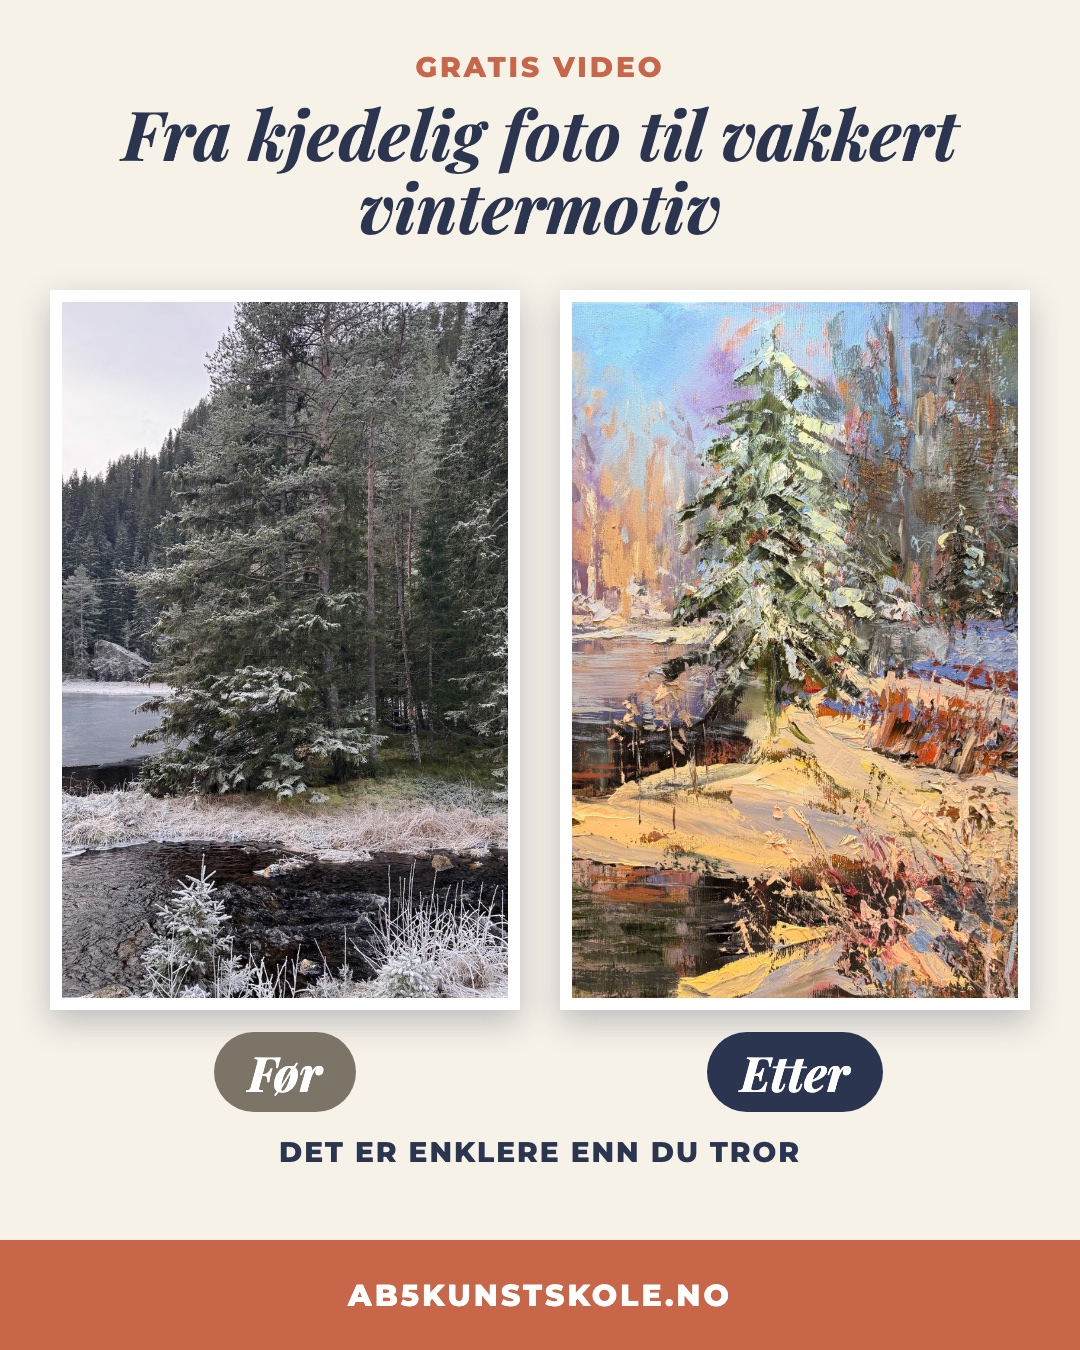
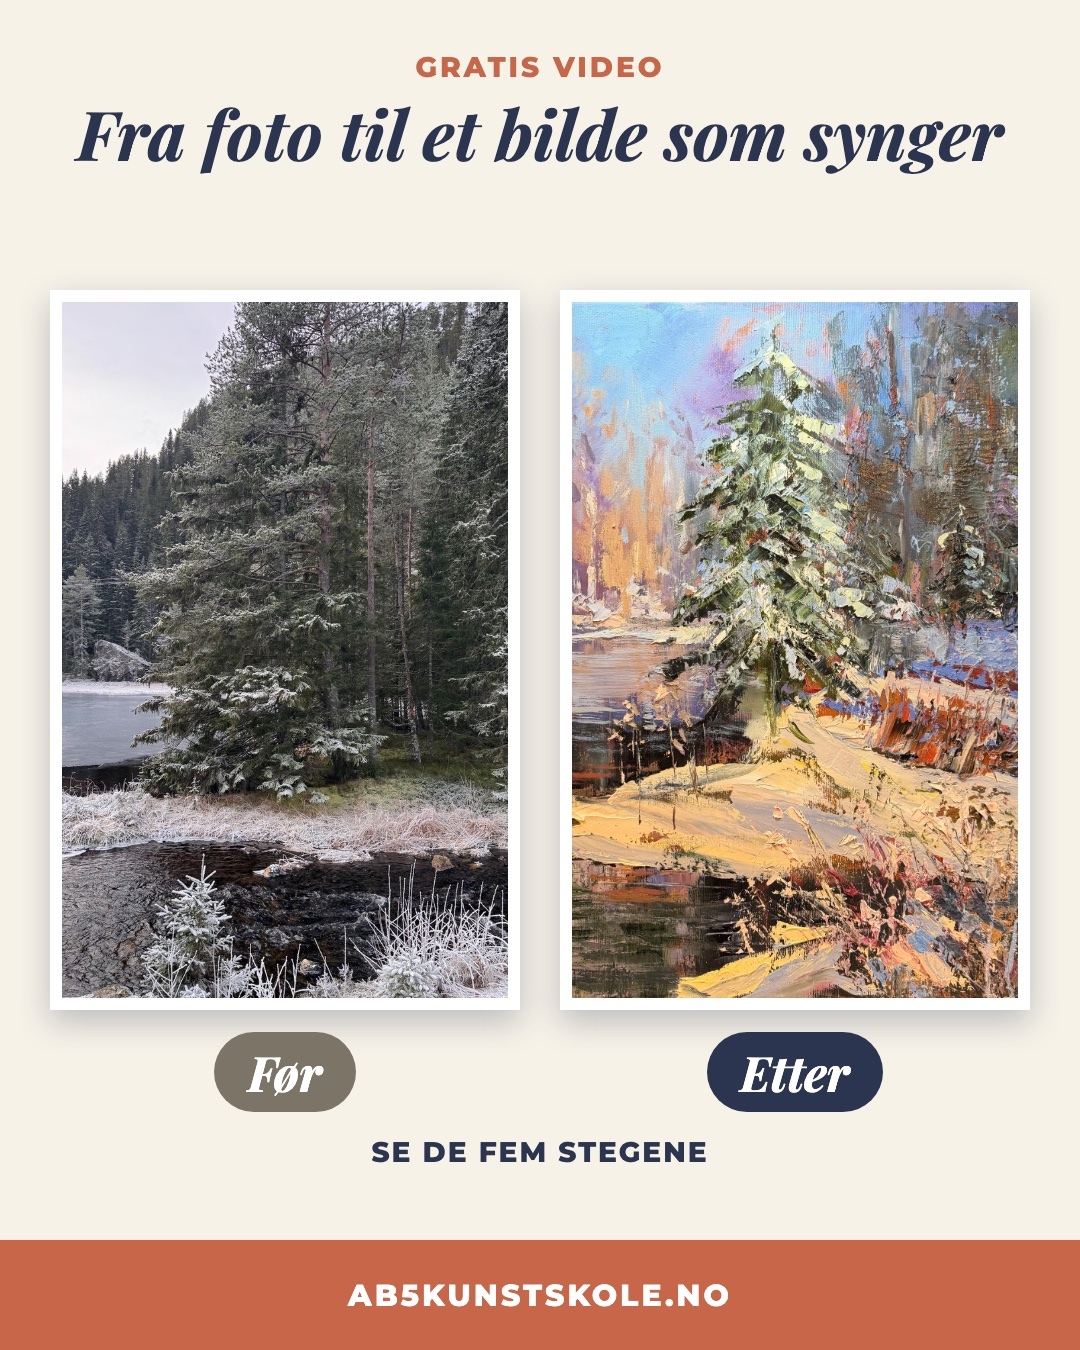
feat: copy aligned with the VSL, P1b renamed to P2

Changed region(s): [[0.0611, 0.0622, 0.9472, 0.1867], [0.2444, 0.84, 0.7333, 0.8711]]

diff --git a/index.html b/index.html
@@ -26,12 +26,13 @@ hr{display:none}
 </style></head><body>
 <header><div class="wrap"><h1>Annonser, januar 2027</h1>
 <p>AB5 Kunstskole. Tre videoannonser og tre bildeannonser som sender folk til gratisvideoen, til godkjenning.</p>
-<nav><a href="#v1">V1</a><a href="#v2">V2</a><a href="#v3">V3</a><a href="#p1">P1</a><a href="#p1b">P1b</a><a href="#p3">P3</a></nav></div></header>
+<nav><a href="#v1">V1</a><a href="#v2">V2</a><a href="#v3">V3</a><a href="#p1">P1</a><a href="#p2">P2</a><a href="#p3">P3</a></nav></div></header>
 <main><div class="wrap"><h1>Meta ads, January 2027 round: copy</h1>
 <p>Six ads that send people to the free VSL (about 25 min). The ads sell the video, not the workshop: no price, no dates, no ticket.</p>
 <ul>
 <li>Videos follow the best freebie format from November ("Ad 1 – New Video", CPL 16.5): Agita talking straight to camera in the studio, paint tubes in hand, paintings behind her, 40–50 seconds, mostly one take. V1 adds two overhead palette shots. All three can be filmed in one session.</li>
-<li>Photos follow the two best image formats (P1b is a test variant of P1, P3 is student social proof in the polaroid layout): the Før/Etter split ("Image 1 Before After", webinar) and the polaroid collage ("Image 2 – Du maler", direct sale).</li>
+<li>Photos build on the two best image formats: Før/Etter ("Image 1 Before After", webinar) for P1 and P2, and the polaroid collage ("Image 2 – Du maler", direct sale) for P3. P2 is a test variant of P1.</li>
+<li>Every promise is something the VSL actually delivers: why the colours turn muddy (the demo), the five AB5 steps, and Agita and Bjørn themselves. No ad promises a skill, a finished painting or the workshop.</li>
 <li>Every ad has 3 primary texts, 3 headlines and 3 descriptions (the short line under the headline in the feed).</li>
 <li>Button on every ad: <strong>Learn more</strong> ("Se mer"). Destination: the VSL page.</li>
 <li>Claims come from the VSL script (<code>copy/vsl-jan-2027/vsl-manus.md</code>). The warm/cold colour rule is not stated anywhere in the ads, because Agita has not confirmed it yet.</li>
@@ -184,14 +185,14 @@ hr{display:none}
 <blockquote>
 <p>Du har tatt vare på alle andre i årevis. Kjørt til fotball. Laget middag. Stilt opp.</p>
 <p>Nå er det din tur.</p>
-<p>I en gratis video viser Agita deg hvorfor fargene så ofte blir grumsete, og de fem stegene fra hvitt lerret til et maleri du blir stolt av.</p>
+<p>I en gratis video viser Agita deg hvorfor fargene så ofte blir grumsete, og de fem stegene AB5 Kunstskole bruker fra hvitt lerret til ferdig maleri.</p>
 <p>👉 Klikk her for å få tilgang med en gang</p>
 </blockquote>
 <p><strong>2</strong></p>
 <blockquote>
 <p>Når satte du sist av tid bare til deg selv?</p>
 <p>Ikke til jobben. Ikke til familien. Bare til deg, en pensel og litt farge.</p>
-<p>Agita har laget en gratis video om hvorfor fargene så ofte blir grumsete, og hvordan du kommer i gang igjen. Den tar rundt 25 minutter. Ta en kopp kaffe og se den i ro og fred.</p>
+<p>Agita har laget en gratis video om hvorfor fargene så ofte blir grumsete, med de fem stegene AB5 Kunstskole bruker. Den tar rundt 25 minutter. Ta en kopp kaffe og se den i ro og fred.</p>
 <p>👉 Klikk her for å få tilgang med en gang</p>
 </blockquote>
 <p><strong>3</strong></p>
@@ -272,7 +273,7 @@ hr{display:none}
 <blockquote>
 <p>«Jeg har aldri malt før.»</p>
 <p>Da er du hjertelig velkommen. Da har du ingen gamle vaner å lære bort.</p>
-<p>Agita har laget en gratis video om hvor du begynner, og hvorfor det første steget ikke handler om fargene.</p>
+<p>I Agitas gratis video får du de fem stegene AB5 Kunstskole bruker, og du ser hvorfor det første steget ikke handler om fargene.</p>
 <p>👉 Klikk her for å få tilgang med en gang</p>
 </blockquote>
 <p><strong>3</strong></p>
@@ -284,7 +285,7 @@ hr{display:none}
 <h3>Headlines</h3>
 <ol>
 <li>Hvor begynner du på et hvitt lerret?</li>
-<li>Aldri malt før? Start her</li>
+<li>Aldri malt før? Se dette først</li>
 <li>Fra hvitt lerret til ferdig maleri</li>
 </ol>
 <h3>Descriptions</h3>
@@ -301,16 +302,15 @@ hr{display:none}
 <strong>Audience:</strong> cold.</p>
 <h3>Image brief</h3>
 <ul>
-<li>Top: <strong>GRATIS VIDEO</strong> / serif headline <strong>Fra kjedelig foto til vakkert vintermotiv</strong>.</li>
+<li>Top: <strong>GRATIS VIDEO</strong> / serif headline <strong>Fra foto til et bilde som synger</strong>.</li>
 <li>Two white-framed pictures: left Agita's reference photo, right her painting. Solid tags under them: «Før» (grey), «Etter» (navy).</li>
-<li>Under: <strong>DET ER ENKLERE ENN DU TROR</strong>, then a terracotta bar with <strong>AB5KUNSTSKOLE.NO</strong>.</li>
+<li>Under: <strong>SE DE FEM STEGENE</strong>, then a terracotta bar with <strong>AB5KUNSTSKOLE.NO</strong>.</li>
 </ul>
 <h3>Primary text</h3>
 <p><strong>1</strong> (same structure as the winner)</p>
 <blockquote>
 <p>Før: Du blander rødt og blått for å få lilla. Resultatet? Brunt, grumsete og livløst.</p>
-<p>Etter: Du vet hvorfor det skjer, og fargene blir rene igjen.</p>
-<p>Agita viser deg forskjellen i en gratis video.</p>
+<p>I en gratis video viser Agita deg hvorfor det skjer, og hva som skal til for at fargene blir rene. Og du får de fem stegene hun bruker fra motiv til maleri.</p>
 <p>👉 Klikk her for å få tilgang med en gang</p>
 </blockquote>
 <p><strong>2</strong></p>
@@ -322,25 +322,25 @@ hr{display:none}
 </blockquote>
 <p><strong>3</strong></p>
 <blockquote>
-<p>Samme motiv. Samme farger. To helt ulike bilder.</p>
-<p>Se hvorfor i Agitas gratis video.</p>
+<p>Et vanlig foto. Et maleri som synger.</p>
+<p>Forskjellen er ikke talent. Se de fem stegene i Agitas gratis video.</p>
 <p>👉 Klikk her for å se videoen med en gang</p>
 </blockquote>
 <h3>Headlines</h3>
 <ol>
-<li>Én ting som forandrer maleriene dine</li>
-<li>Det er enklere enn du tror</li>
+<li>Fra foto til maleri: se de fem stegene</li>
+<li>Det er ikke talent du mangler</li>
 <li>Gratis video fra Agita</li>
 </ol>
 <h3>Descriptions</h3>
 <ol>
-<li>Se forskjellen forklart</li>
-<li>Gratis video fra Agita</li>
-<li>Fra foto til maleri som lever</li>
+<li>Gratis video, ca. 25 min</li>
+<li>Se Agita forklare forskjellen</li>
+<li>Bilder som synger</li>
 </ol>
 <hr />
-<h2 id="p1b">P1b: Før/Etter, weak painting and Agita's painting</h2>
-<div class="gallery"><a href="images/p1b-grumsete-feed.jpg" target="_blank"><img class="ad" src="images/p1b-grumsete-feed.jpg" alt="P1b feed"></a><a href="images/p1b-grumsete-story.jpg" target="_blank"><img class="ad" src="images/p1b-grumsete-story.jpg" alt="P1b story"></a></div>
+<h2 id="p2">P2: Før/Etter, weak painting and Agita's painting</h2>
+<div class="gallery"><a href="images/p2-grumsete-feed.jpg" target="_blank"><img class="ad" src="images/p2-grumsete-feed.jpg" alt="P2 feed"></a><a href="images/p2-grumsete-story.jpg" target="_blank"><img class="ad" src="images/p2-grumsete-story.jpg" alt="P2 story"></a></div>
 
 <p><strong>Format:</strong> the Etter painting large and slightly tilted, the Før painting smaller and tilted the other way against its lower-left edge, so the result is the hero. 4:5 feed and 9:16 story. Test against P1.
 <strong>Audience:</strong> cold.</p>
@@ -363,7 +363,7 @@ hr{display:none}
 <blockquote>
 <p>Kjenner du igjen bildet til venstre?</p>
 <p>Du hadde et vakkert vinterbilde inne i hodet. Men på lerretet ble det grått, flatt og livløst. Og så havnet det i skapet.</p>
-<p>I en gratis video viser Agita deg hvorfor det skjer, og hva du kan gjøre i stedet.</p>
+<p>I en gratis video blander Agita det rett foran deg, så du ser hvorfor det skjer.</p>
 <p>👉 Klikk her for å få tilgang med en gang</p>
 </blockquote>
 <p><strong>3</strong></p>
@@ -376,13 +376,13 @@ hr{display:none}
 <ol>
 <li>Samme motiv. Samme farger.</li>
 <li>Hvorfor blir snøen grå?</li>
-<li>Én ting som forandrer maleriene dine</li>
+<li>Det er ikke talent du mangler</li>
 </ol>
 <h3>Descriptions</h3>
 <ol>
 <li>Gratis video, ca. 25 min</li>
-<li>Se forskjellen forklart</li>
-<li>Det er ikke talent du mangler</li>
+<li>Se Agita blande det foran deg</li>
+<li>Se hvorfor det blir grumsete</li>
 </ol>
 <hr />
 <h2 id="p3">P3: Student work (social proof)</h2>
@@ -396,38 +396,39 @@ hr{display:none}
 <li>Right panel: <strong>ELEVARBEID</strong> / <strong>DETTE ER IKKE AGITAS MALERI</strong>, with the reference photo as a polaroid labelled «Motivet» below the text.</li>
 <li>Bottom bar: <strong>AB5KUNSTSKOLE.NO</strong></li>
 </ul>
+<p><strong>Tone:</strong> inspiration only. Watching the VSL will not make anyone paint like Nina; that takes learning over time. The ad says so honestly and invites people to see where it starts.</p>
 <h3>Primary text</h3>
 <p><strong>1</strong></p>
 <blockquote>
-<p>Dette er ikke Agitas maleri.</p>
-<p>Det er malt av Nina Fagereng, en av elevene våre. Samme motiv som Agita malte: grantreet ved elva, snøen og lyset.</p>
-<p>Hvordan kommer man dit fra et hvitt lerret? Agita viser deg de fem stegene i en gratis video.</p>
+<p>Dette er ikke Agitas maleri. Det er malt av Nina Fagereng, en av elevene våre.</p>
+<p>Et bilde som dette kommer ikke over natta. Det kommer av å lære ett steg om gangen, og av å fortsette.</p>
+<p>Men alle begynner et sted. I en gratis video viser Agita deg hvorfor fargene så ofte blir grumsete, og de fem stegene AB5 Kunstskole bygger på.</p>
 <p>👉 Klikk her for å få tilgang med en gang</p>
 </blockquote>
 <p><strong>2</strong></p>
 <blockquote>
 <p>Se på lyset i snøen. På grantreet som står fram foran skogen bak.</p>
-<p>Det er malt av Nina, elev hos AB5 Kunstskole.</p>
-<p>Lurer du på om du kan male noe slikt? Se Agitas gratis video om de fem stegene fra hvitt lerret til ferdig maleri.</p>
+<p>Det er malt av Nina, elev hos AB5 Kunstskole. Vi blir like glade hver gang en elev viser oss noe slikt.</p>
+<p>Kanskje du også har et bilde inni deg som venter? Start med Agitas gratis video.</p>
 <p>👉 Klikk her for å få tilgang med en gang</p>
 </blockquote>
 <p><strong>3</strong></p>
 <blockquote>
 <p>Malt av Nina, elev hos AB5 Kunstskole.</p>
-<p>Se stegene vi lærer bort i Agitas gratis video.</p>
+<p>Hvert maleri begynner med et hvitt lerret. Se Agitas gratis video om de fem stegene.</p>
 <p>👉 Klikk her for å se videoen med en gang</p>
 </blockquote>
 <h3>Headlines</h3>
 <ol>
 <li>Malt av en av elevene våre</li>
-<li>Dette er ikke Agitas maleri</li>
-<li>Fra hvitt lerret til dette</li>
+<li>Alle begynner et sted</li>
+<li>La deg inspirere</li>
 </ol>
 <h3>Descriptions</h3>
 <ol>
 <li>Gratis video, ca. 25 min</li>
-<li>Fem steg fra hvitt lerret</li>
-<li>Se hvordan du kommer dit</li>
+<li>Se stegene vi bygger på</li>
+<li>Første steg: se videoen</li>
 </ol>
 <h2>Assets needed from Agita</h2>
 <ol>

diff --git a/build.py b/build.py
@@ -7,7 +7,7 @@ import markdown
 SRC = pathlib.Path.home() / "agita-project/copy/ads-jan-2027/ad-copy.md"
 md = SRC.read_text()
 
-imgs = {"P1": "p1-for-etter", "P1b": "p1b-grumsete", "P3": "p3-elevarbeid"}
+imgs = {"P1": "p1-for-etter", "P2": "p2-grumsete", "P3": "p3-elevarbeid"}
 for key, stem in imgs.items():
     gallery = "".join(
         f'<a href="images/{stem}-{fmt}.jpg" target="_blank"><img class="ad" src="images/{stem}-{fmt}.jpg" alt="{key} {fmt}"></a>'
@@ -15,7 +15,7 @@ for key, stem in imgs.items():
     md = re.sub(rf"(## {key}:[^\n]*\n)", rf'\1\n<div class="gallery">{gallery}</div>\n\n', md)
 
 body = markdown.markdown(md, extensions=["tables"])
-sections = [("v1", "V1"), ("v2", "V2"), ("v3", "V3"), ("p1", "P1"), ("p1b", "P1b"), ("p3", "P3")]
+sections = [("v1", "V1"), ("v2", "V2"), ("v3", "V3"), ("p1", "P1"), ("p2", "P2"), ("p3", "P3")]
 for anchor, key in sections:
     body = body.replace(f"<h2>{key}:", f'<h2 id="{anchor}">{key}:', 1)
 nav = "".join(f'<a href="#{a}">{k}</a>' for a, k in sections)
